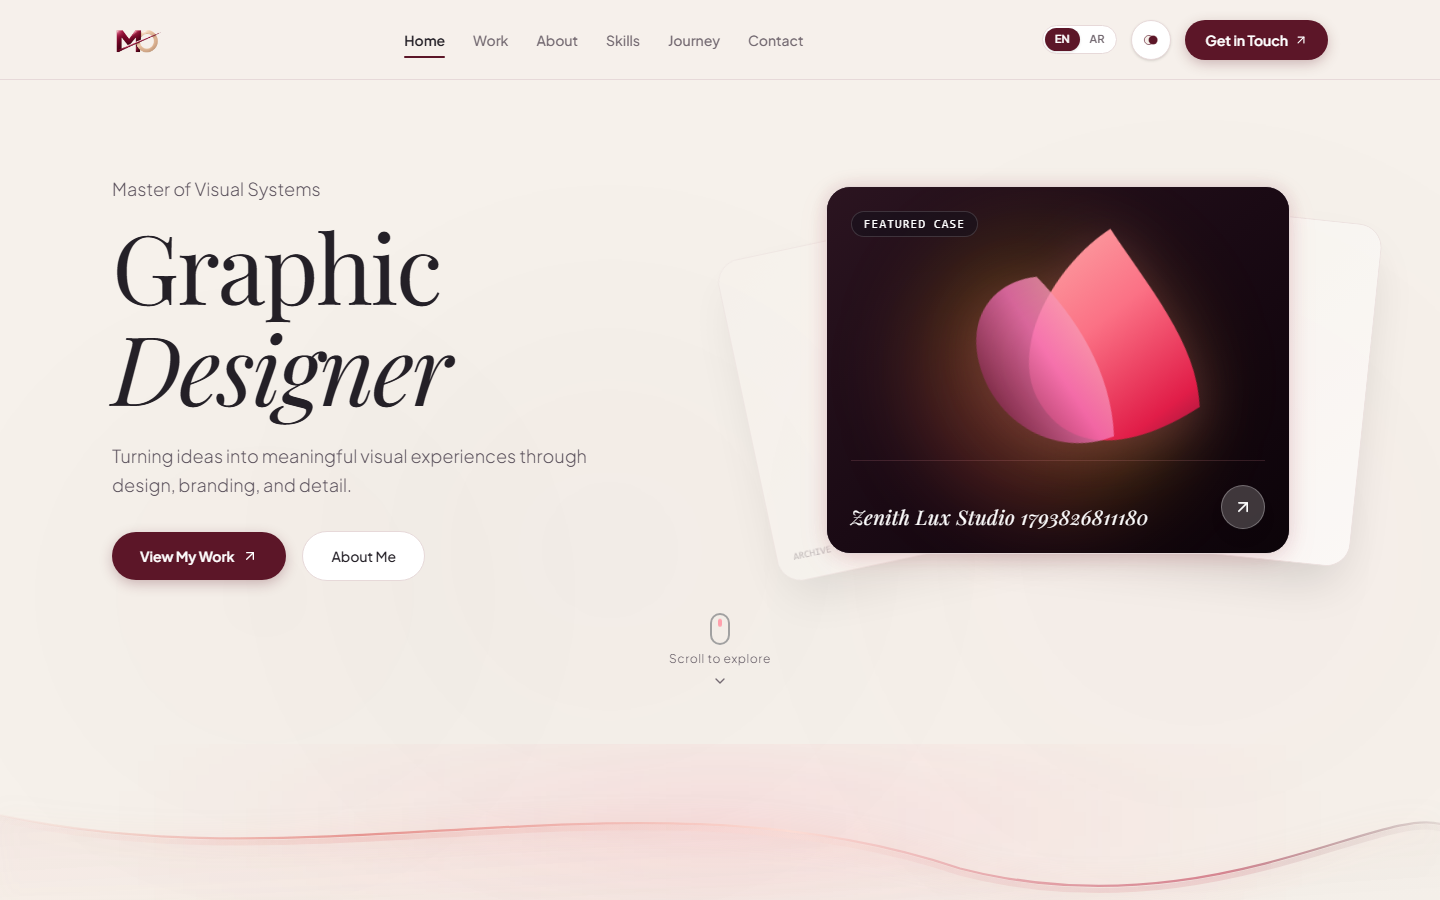
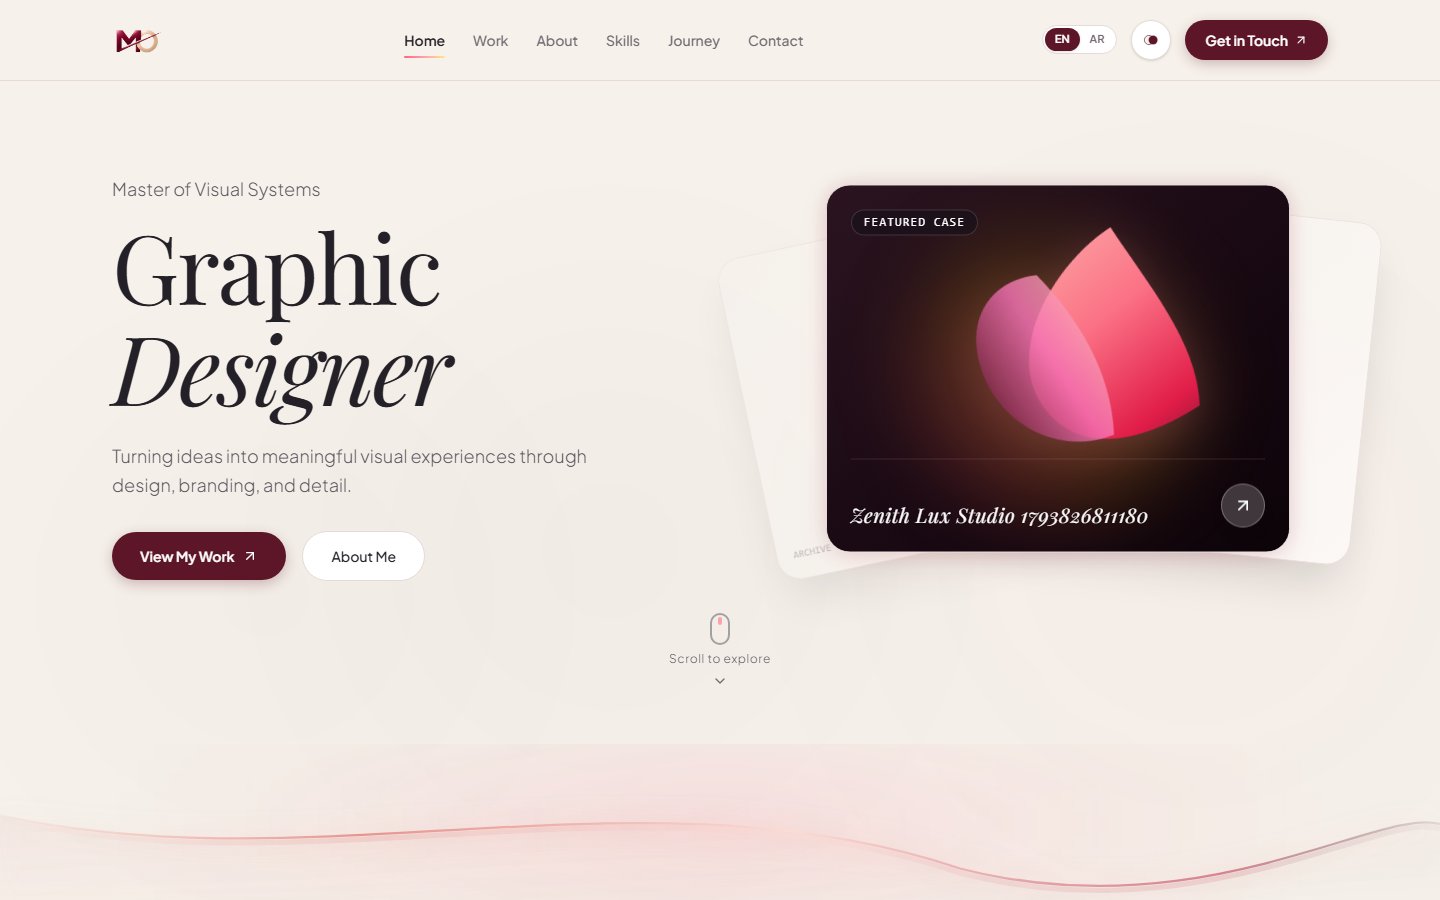
fix(navbar): restore dark mode gradient styling for active section indicator in light mode

diff --git a/frontend/src/index.css b/frontend/src/index.css
@@ -290,12 +290,6 @@
   color: inherit !important;
 }
 
-/* Active Section Indicator Underline: Solid Burgundy (#5C1628) */
-:is(html.light, html[data-theme="light"]) #public-root header nav a span.absolute,
-:is(html.light, html[data-theme="light"]) #public-root header nav a span[class*="bg-gradient-to-r"] {
-  background-color: #5C1628 !important;
-  background-image: none !important;
-}
 
 /* EN / AR Segmented Control */
 :is(html.light, html[data-theme="light"]) #public-root header .bg-white\/5.border-white\/10 {
